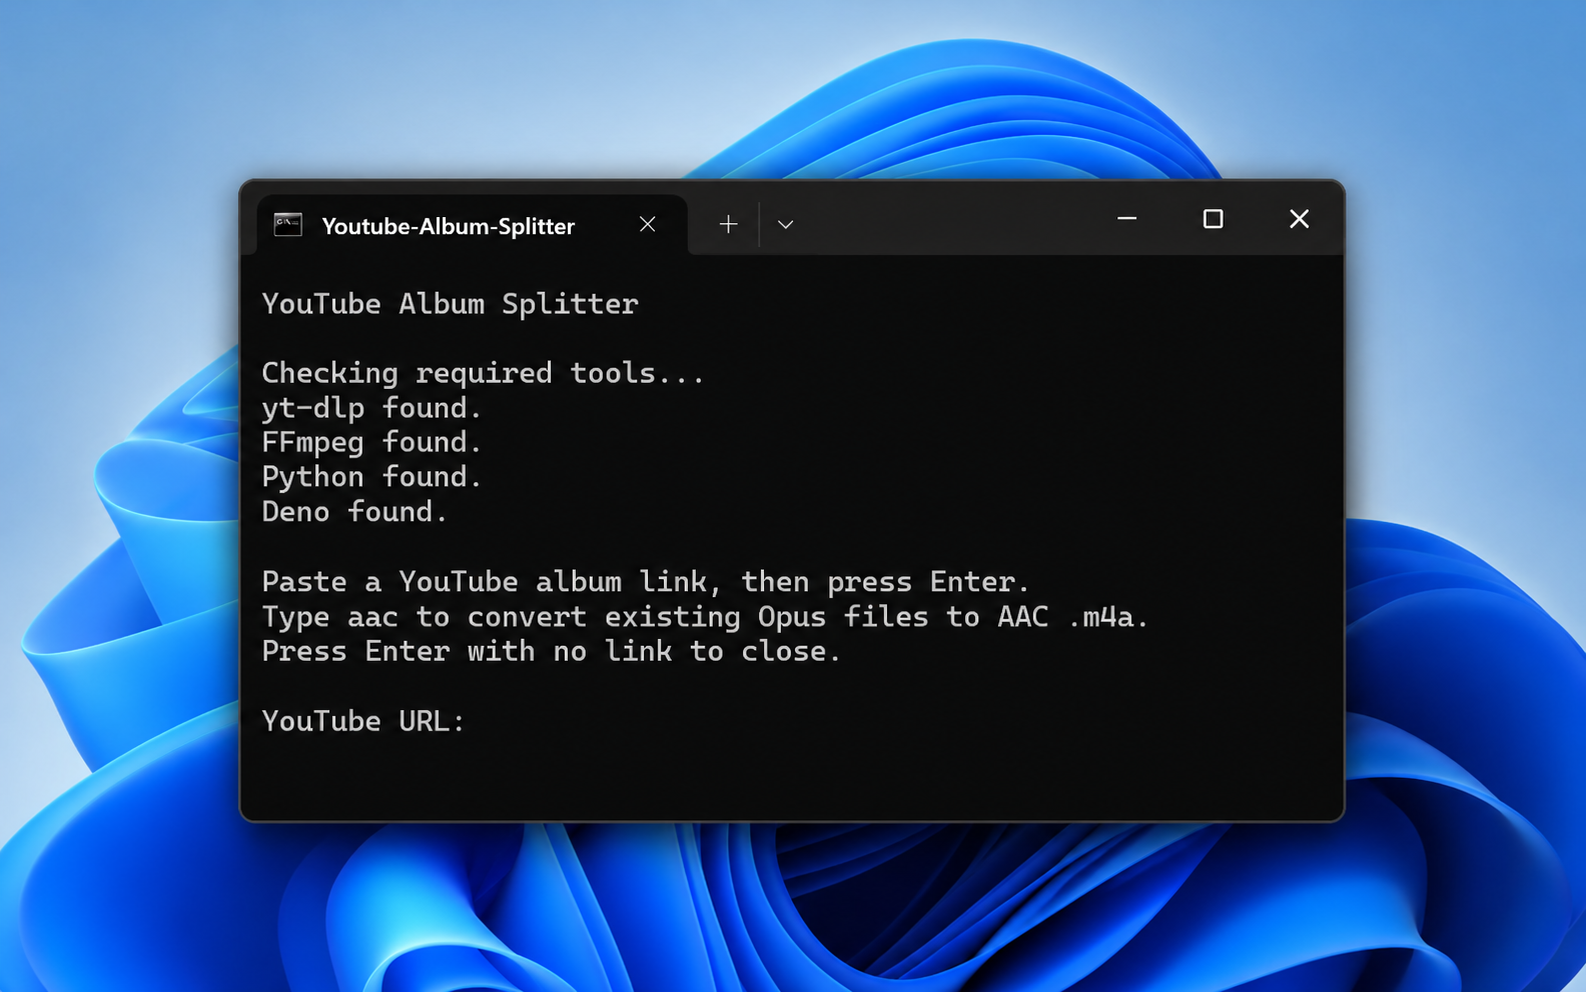
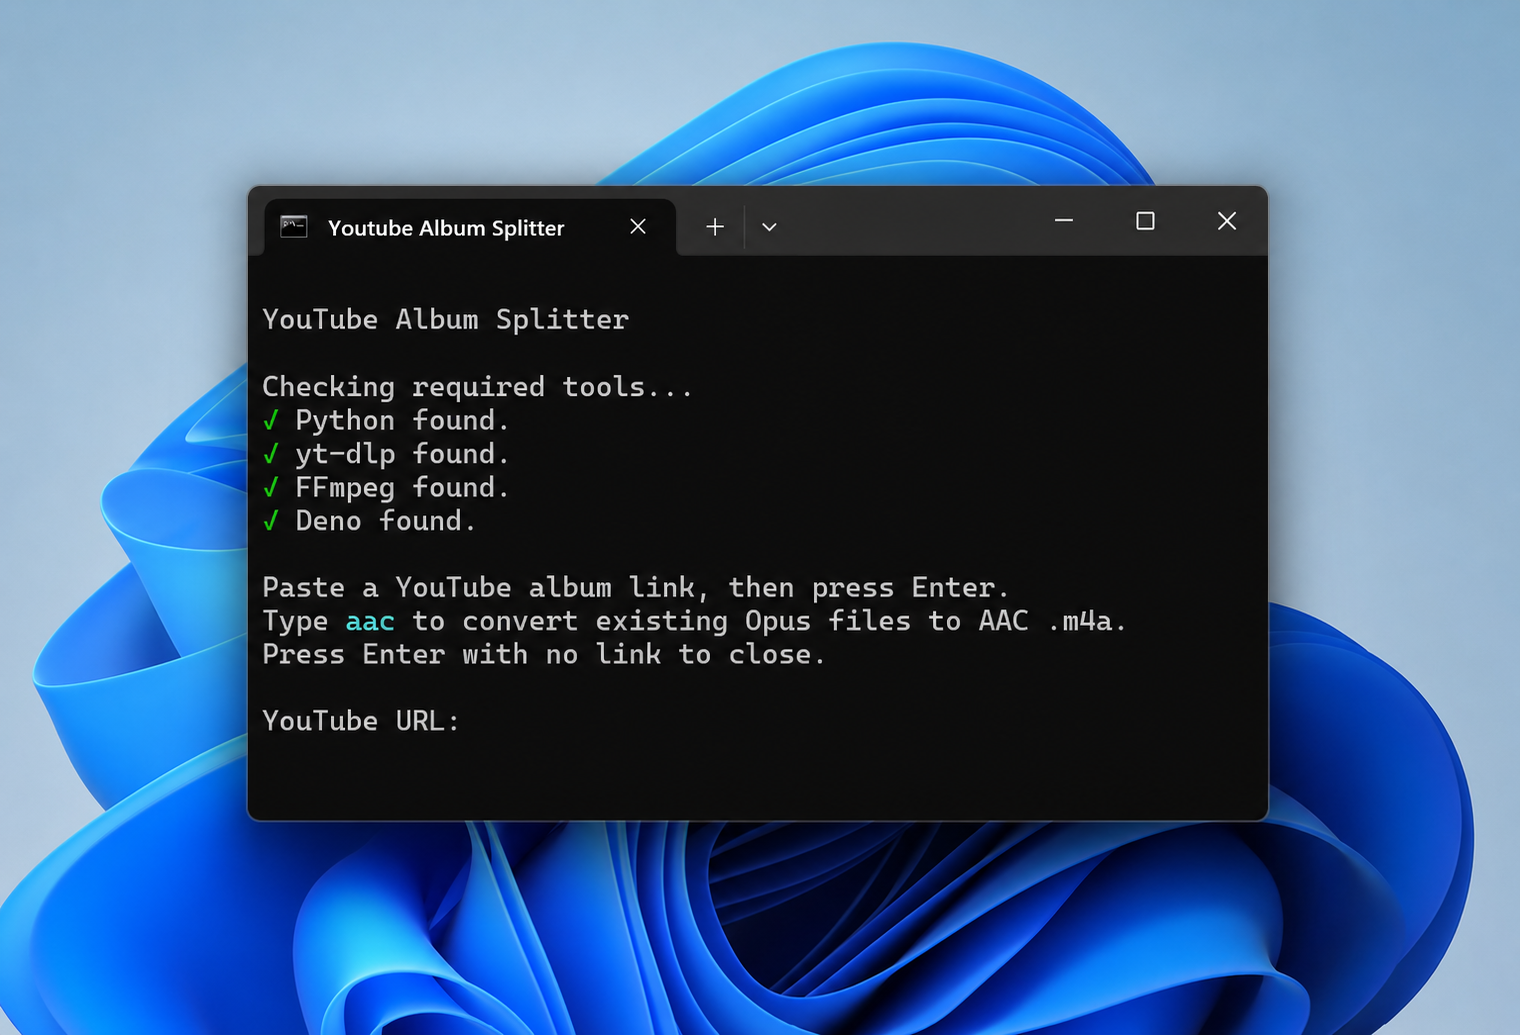
Update README screenshots

diff --git a/README.md b/README.md
@@ -115,7 +115,7 @@ Paste one link
 Get split and tagged songs
 ```
 
-The result is a release that is easy to share, easy to inspect, and hard to mis-install. Users can split one album upload without installing a Python project, keeping a folder of scripts together, or learning a command-line workflow. The complexity stays in the automation where it belongs; the downloaded artifact stays one file.
+The result is a release that is easy to share, easy to inspect, and hard to mis-install. Users can split one album upload without installing a Python project, keeping a folder of scripts together, or learning a command-line workflow. The complexity stays in the automation where it belongs; the download stays one file.
 
 ## How It Works
 
@@ -241,7 +241,9 @@ If a video does not expose an Opus stream, yt-dlp may fall back to the best avai
 
 ## Optional AAC Conversion
 
-Because Opus is the normal output, AAC conversion is treated as an explicit second step. If you need wider compatibility, type `aac` at the prompt after downloading songs.
+AAC conversion is built into the same app: type `aac` at the prompt and it batch-converts the finished Opus library into tagged `.m4a` files.
+
+![YouTube Album Splitter converting Opus files to AAC in Windows Terminal](assets/aac-conversion.png)
 
 The AAC converter scans the `YouTube Album Splitter Songs` folder for `.opus` files and turns them into `.m4a` AAC files. This is a real audio conversion, so it can take longer than the normal download/split step.
 